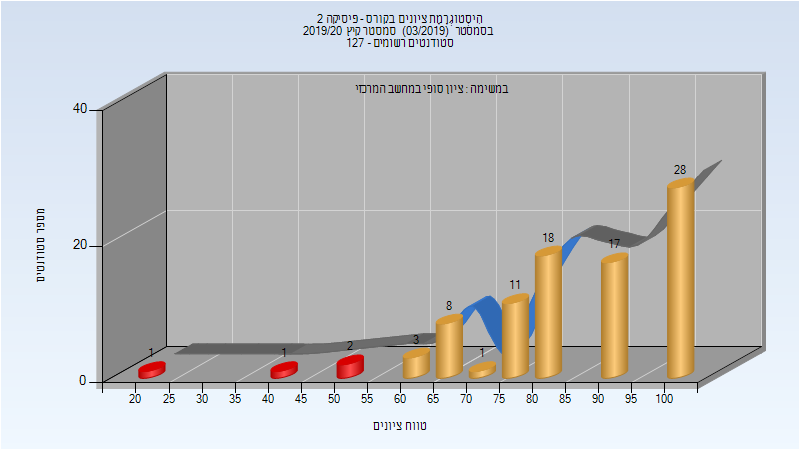
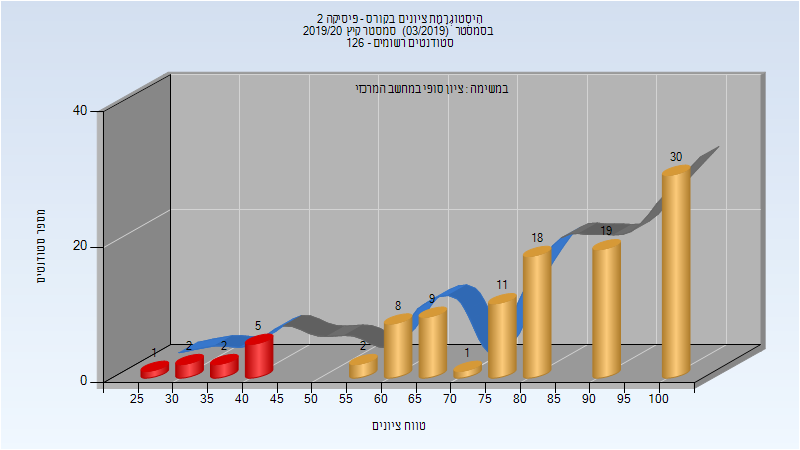
Deploy michael-maltsev/technion-histograms to github.com/michael-maltsev/technion-histograms.git:gh-pages

diff --git a/114052/index.html b/114052/index.html
@@ -2021,13 +2021,39 @@
 </thead>
 <tbody>
 <tr>
-<td>127</td>
-<td>86/41</td>
+<td>126</td>
+<td>86/40</td>
 <td>68</td>
 <td>0</td>
 <td>100</td>
-<td>64.068</td>
-<td>76</td>
+<td>64.513</td>
+<td>79.467</td>
+</tr>
+</tbody>
+</table>
+<h3>סופי מועד ב'</h3>
+<p><img src="201903/Final_B.png" alt="201903 Final_B" /></p>
+<table>
+<thead>
+<tr>
+<th>סטודנטים</th>
+<th>עברו/נכשלו</th>
+<th>אחוז עוברים</th>
+<th>ציון מינימלי</th>
+<th>ציון מקסימלי</th>
+<th>ממוצע</th>
+<th>חציון</th>
+</tr>
+</thead>
+<tbody>
+<tr>
+<td>24</td>
+<td>15/9</td>
+<td>62</td>
+<td>28</td>
+<td>100</td>
+<td>59.167</td>
+<td>60</td>
 </tr>
 </tbody>
 </table>
@@ -2047,13 +2073,13 @@
 </thead>
 <tbody>
 <tr>
-<td>90</td>
-<td>86/4</td>
-<td>96</td>
-<td>20</td>
+<td>108</td>
+<td>98/10</td>
+<td>91</td>
+<td>28</td>
 <td>100</td>
-<td>85.144</td>
-<td>87</td>
+<td>80.917</td>
+<td>84</td>
 </tr>
 </tbody>
 </table>

diff --git a/114052/README.md b/114052/README.md
@@ -647,7 +647,15 @@
 
 | סטודנטים | עברו/נכשלו | אחוז עוברים | ציון מינימלי | ציון מקסימלי | ממוצע | חציון |
 | ---- | ---- | ---- | ---- | ---- | ---- | ---- |
-| 127 | 86/41 | 68 | 0 | 100 | 64.068 | 76 |
+| 126 | 86/40 | 68 | 0 | 100 | 64.513 | 79.467 |
+
+### סופי מועד ב'
+
+![201903 Final_B](201903/Final_B.png)
+
+| סטודנטים | עברו/נכשלו | אחוז עוברים | ציון מינימלי | ציון מקסימלי | ממוצע | חציון |
+| ---- | ---- | ---- | ---- | ---- | ---- | ---- |
+| 24 | 15/9 | 62 | 28 | 100 | 59.167 | 60 |
 
 ### סופי
 
@@ -655,5 +663,5 @@
 
 | סטודנטים | עברו/נכשלו | אחוז עוברים | ציון מינימלי | ציון מקסימלי | ממוצע | חציון |
 | ---- | ---- | ---- | ---- | ---- | ---- | ---- |
-| 90 | 86/4 | 96 | 20 | 100 | 85.144 | 87 |
+| 108 | 98/10 | 91 | 28 | 100 | 80.917 | 84 |
 
